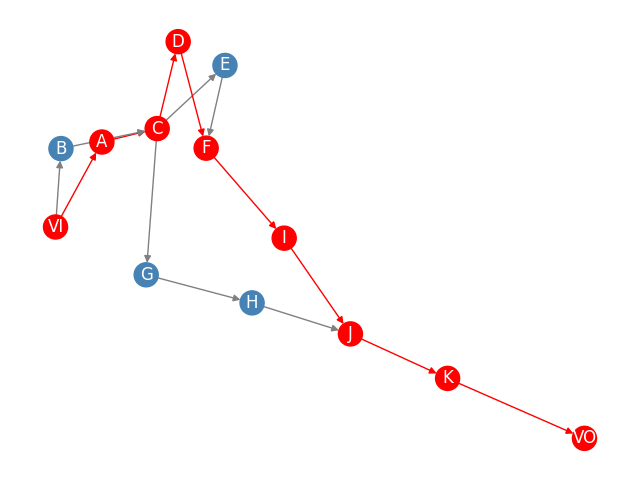
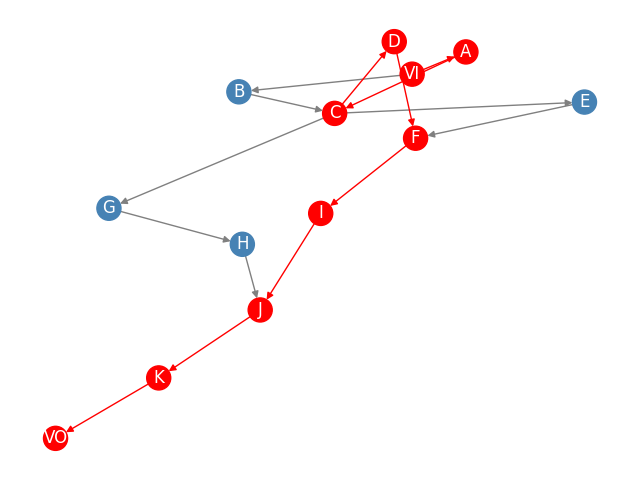
Finishing process the raw input data
Done with processing input data; TODO: trim the VI and VO after finding the critical path for matplotlib's further handling

diff --git a/dag_draft_v02.py b/dag_draft_v02.py
@@ -2,24 +2,64 @@ import networkx as nx
 import matplotlib.pyplot as plt
 import csv
 
+
 ######################
 # Process input data #
 ######################
 
 filename = "event_planning.csv"
 
-# Initialize an empty dictionary to store the data
-data = []
+# Define the virtual start and end nodes
+start_node = 'VI'
+end_node = 'VO'
 
-# Read the CSV file and store the data in the dictionary
-with open(filename, newline='', encoding='UTF-8') as csvfile:
-    reader = csv.DictReader(csvfile)
+# Initialize a dictionary for nodes with virtual start and end nodes
+# TODO: rename to node_duration_dict
+node_dict = {start_node: 0, end_node: 0}
+
+# Initialize an empty dictionary for item-description pair
+# To build the edge lists
+node_description_dict = {}
+
+# Initialize empty edge_list, each edge is stored as tuple
+edge_list = []
+
+# Read the CSV file, update node_dict, node_description_dict, and edge_list
+with open(filename, 'r', encoding='UTF-8') as file:
+    reader = csv.reader(file)
+    next(reader)  # skip header row
+
     for row in reader:
-        data.append(row)
+        node = row[0]
+        description = row[1]
+        duration = int(row[2]) if row[2] else 0
+        preceding = row[3].split(',') if row[3] else []
 
-# Print the data
-# for item in data:
-#     print(item)
+        # Add the node and its duration to node_duration_dict
+        node_dict[node] = duration
+
+        # Add the node and its description to node_description_dict
+        node_description_dict[node] = description
+
+        # If node has no preceding node, add edge from virtual start node
+        if not preceding:
+            edge = (start_node, node)
+            if edge not in edge_list:
+                edge_list.append(edge)
+        else:
+            # If node has preceding nodes, add edges accordingly
+            for p in preceding:
+                edge = (p.strip(), node)
+                if edge not in edge_list:
+                    edge_list.append(edge)
+
+# If node is not being pointed to, add edge to virtual end node
+for node in node_dict.keys():
+    if node not in [e[0] for e in edge_list] and node != end_node:
+        edge = (node, end_node)
+        if edge not in edge_list:
+            edge_list.append(edge)
+
 
 ######################
 # Find Critical Path #
@@ -28,24 +68,6 @@ with open(filename, newline='', encoding='UTF-8') as csvfile:
 # Global variables
 # Create an empty directed graph Object
 G = nx.DiGraph()
-# Define the virtual start and end nodes
-start_node = 'VI'
-end_node = 'VO'
-
-# Build the key-value dict
-# Adding virtual-start node (VI stands for virtual-in)
-# Rule: If a node N is not being pointed to, add (start_node, N)
-node_dict = {start_node: 0, 'A': 3, 'B': 2, 'C': 2, 'D': 4,
-             'E': 3, 'F': 2, 'G': 3, 'H': 1, 'I': 5,
-             'J': 2, 'K': 10, end_node: 0}
-
-# Build the edge lists
-# Adding virtual-end node (VO stands for virtual-out)
-# Rule: If a node N points to no node, add (N, end_node)
-edge_list = [(start_node, 'A'), (start_node, 'B'), ('A', 'C'), ('B', 'C'),
-             ('C', 'D'), ('C', 'E'), ('E', 'F'), ('D', 'F'),
-             ('C', 'G'), ('G', 'H'), ('F', 'I'), ('H', 'J'),
-             ('I', 'J'), ('J', 'K'), ('K', end_node)]
 
 # Add edges to a graph from a list of edges
 # The edges must be given as 2-tuples (u, v) or 3-tuples (u, v, d)
